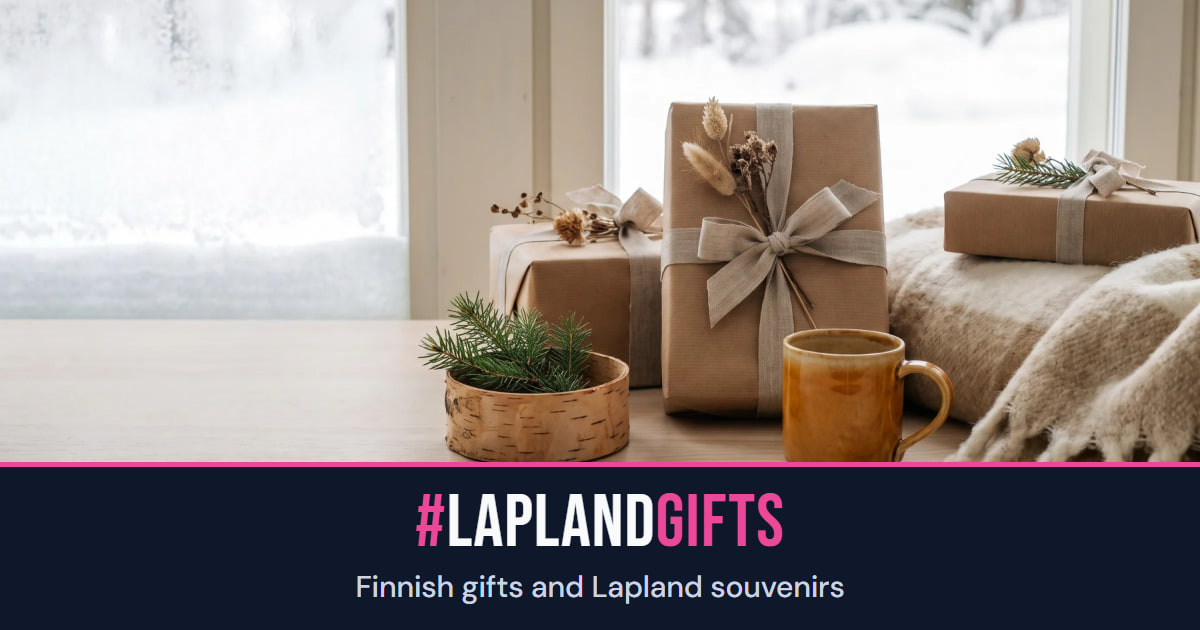
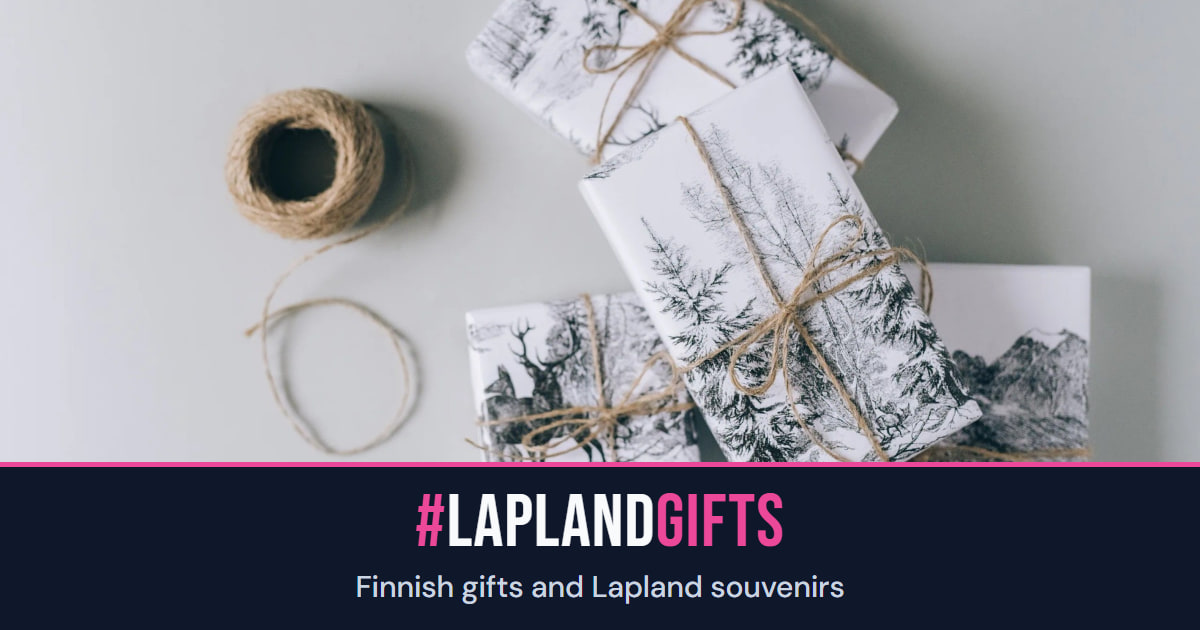
Sivustokortti uudesta etusivun herosta (Pexels, ei BY-SA)
Etusivun hero vaihtui tekoälykuvasta valokuvaan 9.10., joten jakokortti kerättiin uudelleen livestä
(harvest_heroes, gen_cards, install; ?v=efb55012). gate:og vihreä.

diff --git a/index.html b/index.html
@@ -136,13 +136,13 @@
     <meta property="og:title" content="Finnish gifts and Lapland souvenirs" />
     <meta property="og:description" content="Finnish design, Lapland handicrafts, sweets and berry powders, shipped to where you live. Each one ships from the Finnish or Nordic shop that sells it." />
     <meta property="og:url" content="https://laplandgifts.com/" />
-    <meta property="og:image" content="https://laplandgifts.com/og.jpg?v=d78dea6f" />
+    <meta property="og:image" content="https://laplandgifts.com/og.jpg?v=efb55012" />
     <meta name="twitter:image:alt" content="#LAPLANDGIFTS: Finnish gifts and Lapland souvenirs" />
     <meta property="og:image:alt" content="#LAPLANDGIFTS: Finnish gifts and Lapland souvenirs" />
     <meta property="og:image:height" content="630" />
     <meta property="og:image:width" content="1200" />
     <meta property="og:image:type" content="image/jpeg" />
-    <meta property="og:image:secure_url" content="https://laplandgifts.com/og.jpg?v=d78dea6f" />
+    <meta property="og:image:secure_url" content="https://laplandgifts.com/og.jpg?v=efb55012" />
     <meta property="og:site_name" content="LaplandGifts" />
     <meta property="og:locale" content="en_US" />
 
@@ -150,7 +150,7 @@
     <meta name="twitter:card" content="summary_large_image" />
     <meta name="twitter:title" content="Finnish gifts and Lapland souvenirs" />
     <meta name="twitter:description" content="Finnish design, Lapland handicrafts, sweets and berry powders, shipped to where you live. Each one ships from the Finnish or Nordic shop that sells it." />
-    <meta name="twitter:image" content="https://laplandgifts.com/og.jpg?v=d78dea6f" />
+    <meta name="twitter:image" content="https://laplandgifts.com/og.jpg?v=efb55012" />
 
     <!-- GA4 with Consent Mode v2 — default DENIED until CookieBanner accepts -->
     <script>
